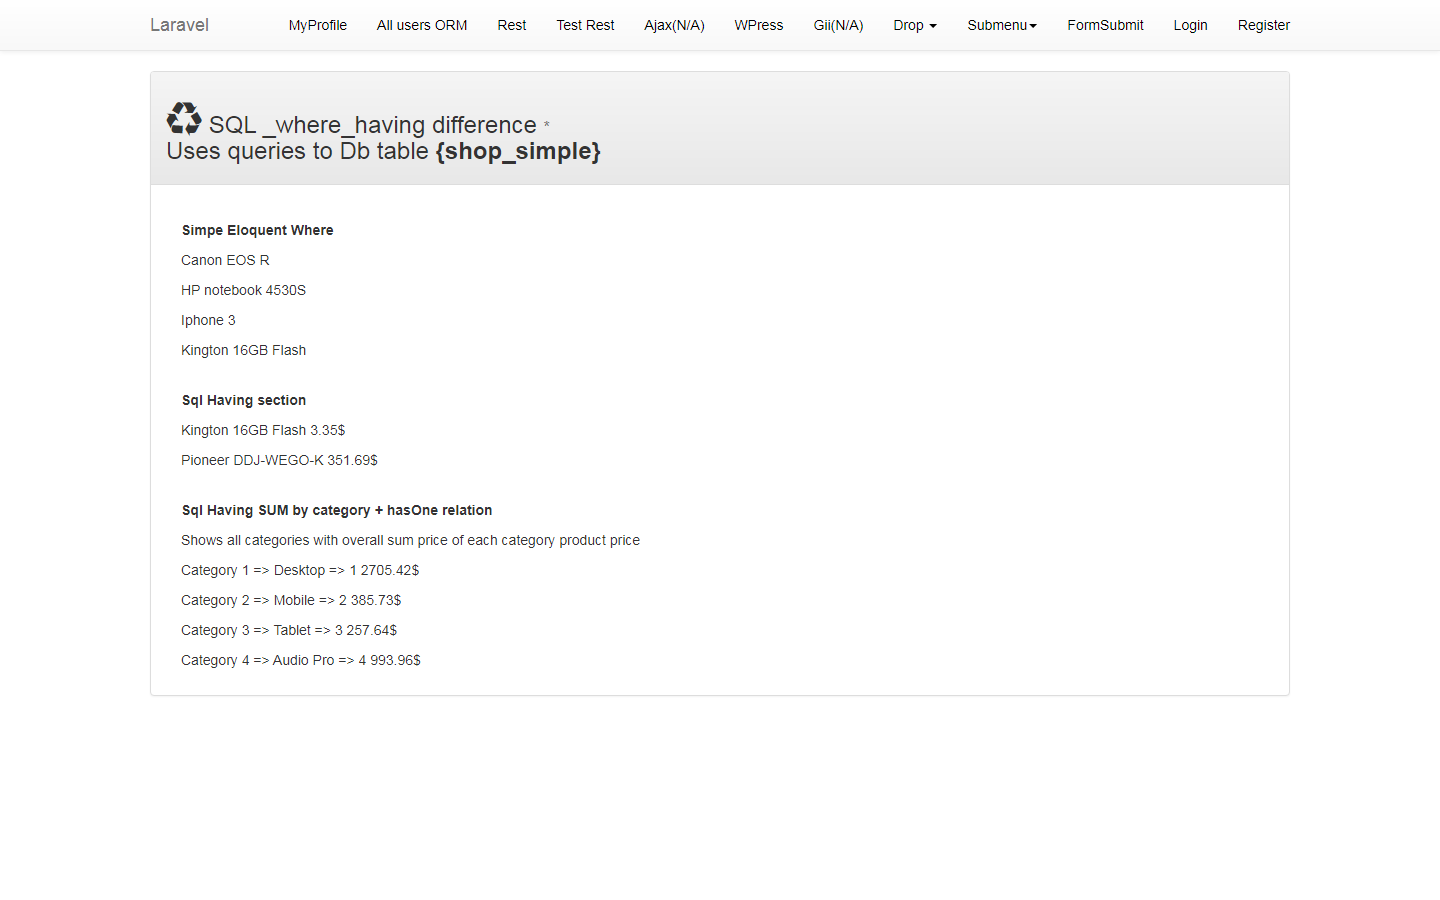
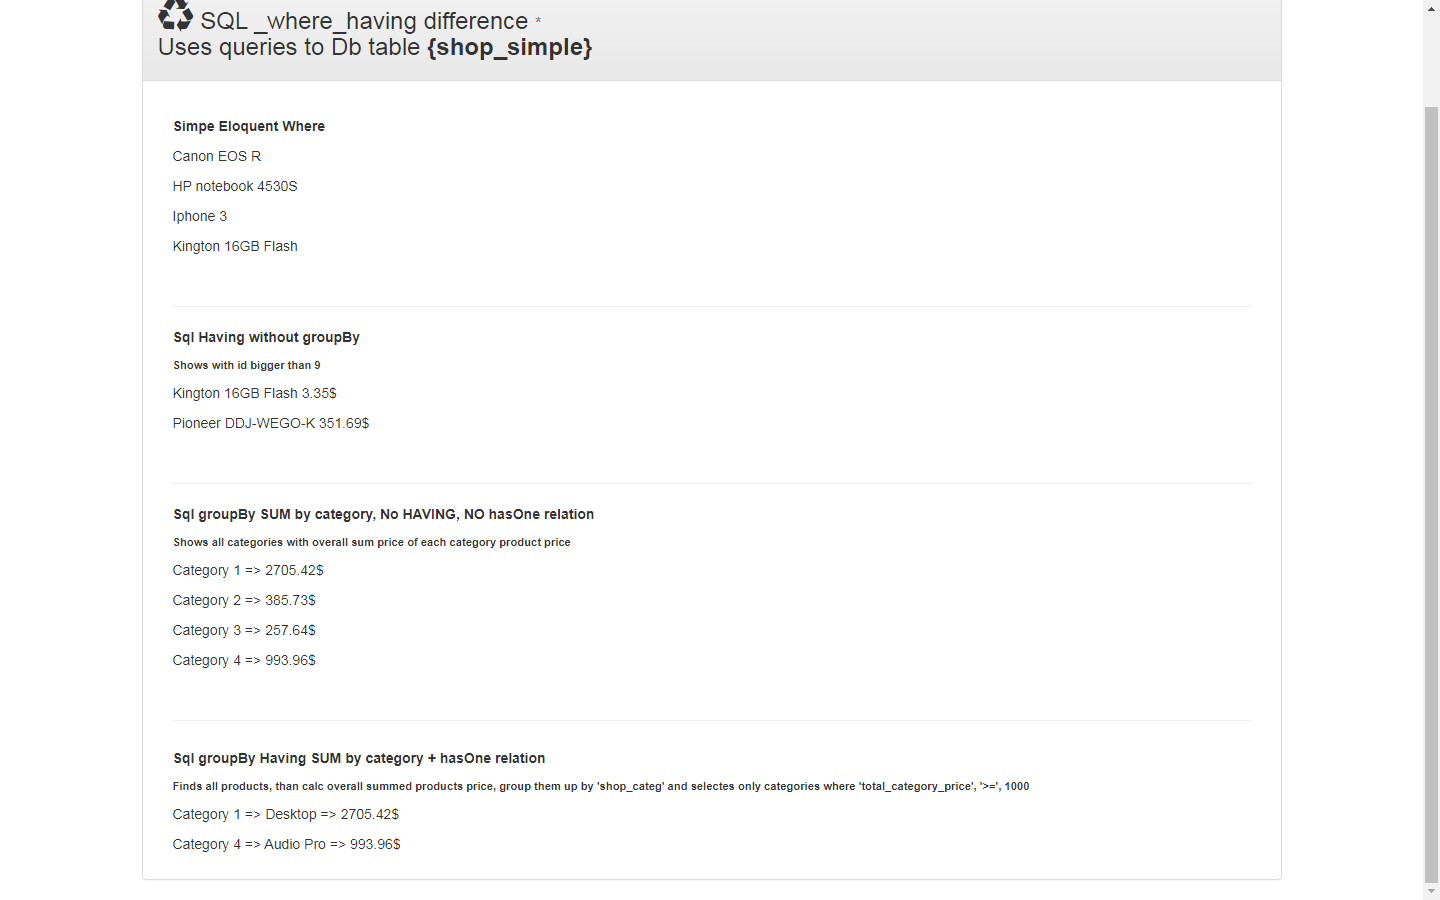
Feat(): Having/groupBy Eloquent

diff --git a/blog_Laravel/app/Http/Controllers/SQL_where_having_Contr/Where_havingController.php b/blog_Laravel/app/Http/Controllers/SQL_where_having_Contr/Where_havingController.php
@@ -32,7 +32,7 @@ class Where_havingController extends Controller
 	
 	
 	/**
-     * Show start page  
+     * Page with HAVING/groupBy SQL examples (queries are done to table {shop_simple})  
      *
      * @return \Illuminate\Http\Response
      */
@@ -41,29 +41,35 @@ class Where_havingController extends Controller
 	    //simple Eloquent
 		$findModel = ShopSimple::where('shop_categ', '1')->where('shop_currency', "$")->get(); //multiple where
 
-        //HAVING examples
+        //HAVING Clause examples
         \DB::statement("SET SQL_MODE=''");//this is the trick use it just before your query to ovveride Syntax error or access violation: 1055 Error
 		
         //$findModel2 = DB::table('shop_simple')->having('shop_price', '<', 10)->get();                                //Works, find with price less than 10
 		$findModel2 = DB::table('shop_simple')->groupBy('shop_id', 'shop_title')->having('shop_id', '>=', 9)->get(); //Works, gets records with id bigger/equal than 9
         //$findModel2 = ShopSimple::where('shop_categ', '1')->groupBy('shop_price')->get();                            //Works, gets soted by 'shop_price' but NOT HAVING     
 		
-		//Works OK, returns data containing list of all table categories with overall sum price for each category, BUT HAS NO hasOne relation!!! 
+		
+		//Works OK, returns data containing list of all table categories with overall summed products price for each category, BUT HAS NO hasOne relation!!! //e.g returns => Category 1 => all Category 1's products price summed (category 1's prouduct1 ptice + category 1's prouduct1 ptice, etc)
 		$findModel3 = ShopSimple::selectRaw("SUM(shop_price) as total_category_price") //return SUM as property $findModel3->total_category_price
 		                        ->selectRaw("shop_categ as productCategoryX") //also selects shop_categ column, not necessary if use {::select('*')} as in example below
-		                        //->selectRaw("SUM(credit) as total_credit")
-		                       ->groupBy('shop_categ')->get(); 
+		                        //->selectRaw("SUM(credit) as total_credit") //another condition to sum other column, not used here
+		                        ->groupBy('shop_categ')->get(); 
 		
         
 		
         //Same as prev but with hasOne relation
-        $findModel3 = ShopSimple::select('*')->with('categoryName')->selectRaw("SUM(shop_price) as total_category_price")
-		                        ->selectRaw("shop_categ as productCategoryX") //not mandatory as here we use {::select('*')}
- 								->groupBy('shop_categ')->get();
+		//Finds all products, than calc overall summed products price, group them up by 'shop_categ' and selectes only categories where 'total_category_price', '>=', 1000
+        $findModel4 = ShopSimple::select('*')
+		                        ->with('categoryName') //hasOne relation
+		                        ->selectRaw("SUM(shop_price) as total_category_price")
+		                        ->selectRaw("shop_categ as productCategoryX") //not mandatory here as here we use {::select('*')}
+ 								->groupBy('shop_categ')
+								->having('total_category_price', '>=', 800)//where 'total_category_price' bigger than 2000
+								->get();
 		
 		//dd($findModel3);
 		
-		return view('sql_where_having.index',  compact('findModel', 'findModel2', 'findModel3'));
+		return view('sql_where_having.index',  compact('findModel', 'findModel2', 'findModel3', 'findModel4'));
     }
 	
 	

diff --git a/blog_Laravel/resources/views/sql_where_having/index.blade.php b/blog_Laravel/resources/views/sql_where_having/index.blade.php
@@ -74,34 +74,55 @@
                     
 					
 					
-				    <!--------------- Sql Having section ------------------->
+				    <!--------------- Sql Having without groupBy ($findModel2)------------------->
 					<div class="col-sm-12 col-xs-12"></br>
-					    <p><b> Sql Having section </b></p>
+					    <hr><p><b> Sql Having without groupBy </b></p>
+						<p style="font-size:0.8em;"><b> Shows with id bigger than 9  </b></p>
 						
 					    @foreach($findModel2 as $product)
 						    <p> {{$product->shop_title}}  {{$product->shop_price}}$ </p>
 						@endforeach
 					    
 					</div> 
-                    <!------------ End Sql Having section ------------------->
+                    <!------------ End Sql Having without groupBy ($findModel2) ------------------->
 
                     
 					
 					
-					 <!--------------- Sql Having SUM by category + hasOne relation ------------------->
+				    <!--------------- Sql groupBy SUM by category, No HAVING, NO hasOne relation ($findModel3) ------------------->
 					<div class="col-sm-12 col-xs-12"></br>
-					    <p><b> Sql Having SUM by category + hasOne relation </b></p>
-						<p> Shows all categories with overall sum price of each category product price </p>
+					    <hr><p><b> Sql groupBy SUM by category, No HAVING, NO hasOne relation </b></p>
+						<p style="font-size:0.8em;"><b> Shows all categories with overall sum price of each category product price </b></p>
 					    @foreach($findModel3 as $product)
 						    
 						    <p> Category {{$product->productCategoryX}} =>         <!-- i.e 1,2 --> <!-- can also us $product->shop_categ-->
-							             {{$product->categoryName->categ_name}} =>  <!-- hasOne relation i.e Desktop --> 
-										 {{$product->shop_categ}}  {{$product->total_category_price}}$ 
+										 {{$product->total_category_price}}$ 
 							</p>
 						@endforeach
 					    
 					</div> 
-                    <!------------ End Sql Having SUM by category------------------->
+                    <!------------ End Sql groupBy SUM by category, No HAVING, NO hasOne relation  ($findModel3)  ------------------------------------->
+					
+					
+					
+					
+					<!--------------- Sql groupBy Having SUM by category + hasOne relation ($findModel4) ------------------->
+					<div class="col-sm-12 col-xs-12"></br>
+					    <hr><p><b> Sql groupBy  Having SUM by category + hasOne relation </b></p>
+						<p style="font-size:0.8em;"><b> 
+						    Finds all products, than calc overall summed products price, group them up by 'shop_categ' and selectes only categories where 'total_category_price', '>=', 1000 </b>
+						</p>
+							
+					    @foreach($findModel4 as $product)
+						    
+						    <p> Category {{$product->productCategoryX}} =>         <!-- i.e 1,2 --> <!-- can also us $product->shop_categ-->
+							             {{$product->categoryName->categ_name}} =>  <!-- hasOne relation i.e Desktop --> 
+										 {{-- $product->shop_categ --}}  {{$product->total_category_price}}$ 
+							</p>
+						@endforeach
+					    
+					</div> 
+                    <!------------ Sql groupBy Having SUM by category + hasOne relation ($findModel4)  ------------------------->
 					
 				
 
